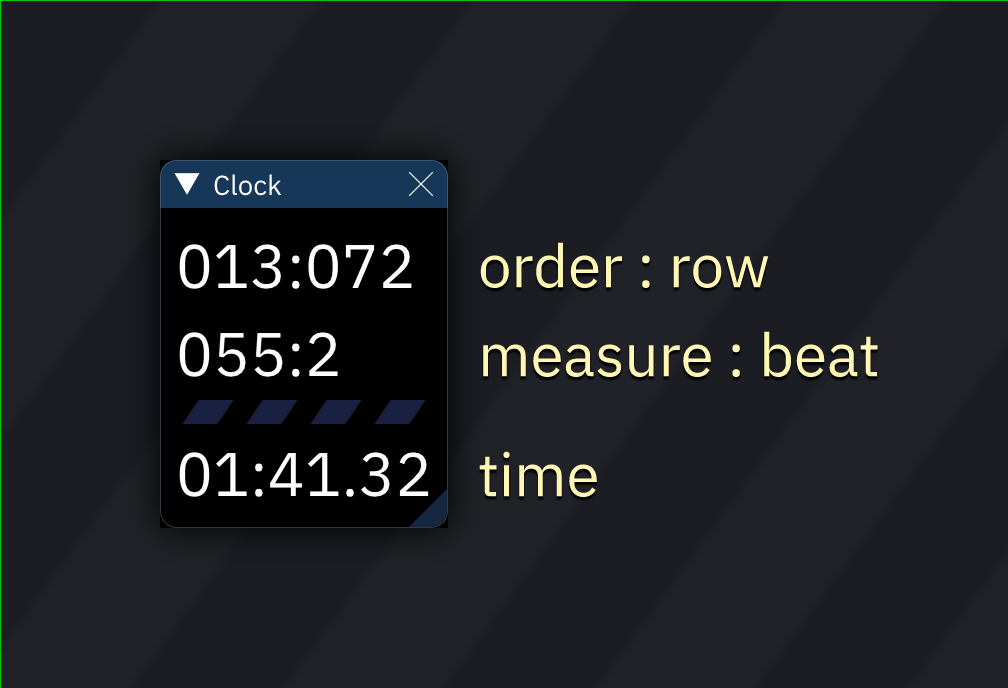
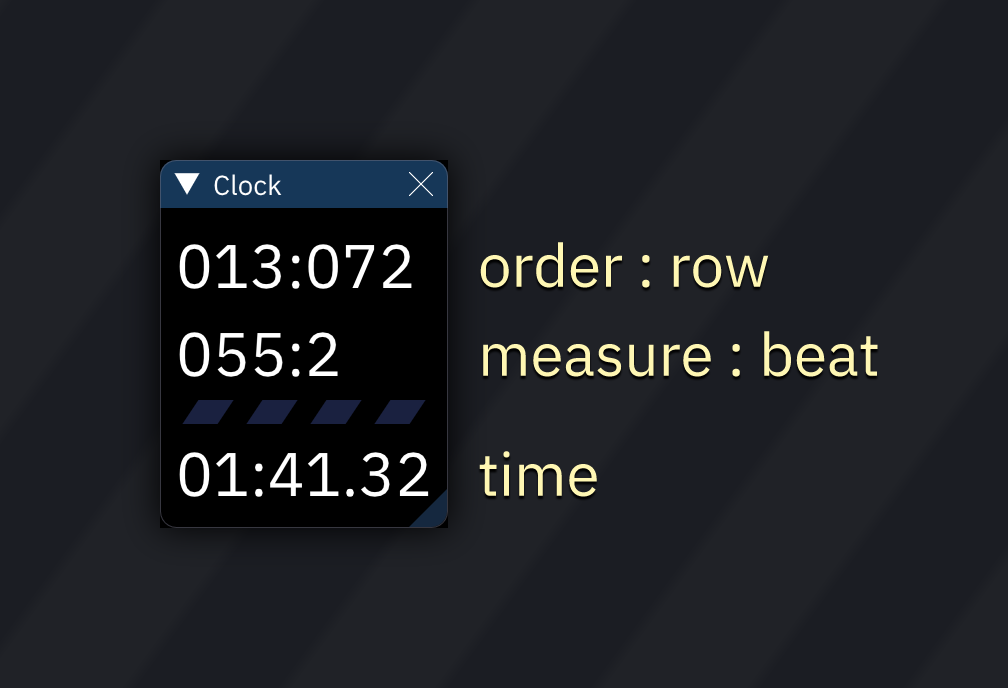
General doc cleanup.
Marked items only available in advanced mode, fixed up images with accidental green borders, other nitpicks.

diff --git a/doc/2-interface/menu-bar.md b/doc/2-interface/menu-bar.md
@@ -2,6 +2,8 @@
 
 the menu bar allows you to select from five menus: file, edit, settings, window and help.
 
+items in _italics_ don't appear in basic mode and are only available in advanced mode.
+
 # file
 
 - **new...**: create a new song.
@@ -38,12 +40,12 @@ the menu bar allows you to select from five menus: file, edit, settings, window 
 - **export command stream...**: export song data to a command stream file. see next section for more details.
   - this option is for developers.
   
-- **add chip...**: add a chip to the current song.
-- **configure chip...**: set a chip's parameters.
+- _**add chip...**:_ add a chip to the current song.
+- _**configure chip...**:_ set a chip's parameters.
   - for a list of parameters, see [7-systems](../7-systems/README.md).
-- **change chip...**: change a chip to another.
+- _**change chip...**:_ change a chip to another.
   - **Preserve channel positions**: enable this option to make sure Furnace does not auto-arrange/delete channels to compensate for differing channel counts. this can be useful for doing ports, e.g. from Genesis to PC-98.
-- **remove chip...**: remove a chip.
+- _**remove chip...**_: remove a chip.
   - **Preserve channel positions**: same thing as above.
 
 - **restore backup**: restore a previously saved backup.
@@ -99,10 +101,10 @@ the following settings exist:
   - some chips will not be available, either because VGM doesn't support these yet, or because you selected an old format version.
 - **add pattern change hints**: this option adds a "hint" when a pattern change occurs. only useful if you're a developer.
   - the format of the "hint" data block that gets written is: `67 66 FE ll ll ll ll 01 oo rr pp pp pp ...`
-    - ll: length, a 32-bit little-endian number
-    - oo: order
-    - rr: initial row (a 0Dxx effect is able to select a different row)
-    - pp: pattern index (one per channel)
+    - `ll`: length, a 32-bit little-endian number
+    - `oo`: order
+    - `rr`: initial row (a 0Dxx effect is able to select a different row)
+    - `pp`: pattern index (one per channel)
 - **direct stream mode**: this option allows DualPCM to work. don't use this for other chips.
   - may or may not play well with hardware VGM players.
 
@@ -140,7 +142,7 @@ it's not really useful, unless you're a developer and want to use a command stre
 - **cut**: moves the current selection in the pattern view to clipboard.
 - **copy**: copies the current selection in the pattern view to clipboard.
 - **paste**: inserts the clipboard's contents in the cursor position.
-- **paste special...**: variants of the paste feature.
+- _**paste special...**:_ variants of the paste feature.
   - **paste mix**: inserts the clipboard's contents in the cursor position, but does not erase the occupied region.
   - **paste mix (background)**: does the same thing as paste mix, but doesn't alter content which is already there.
   - **paste with ins (foreground)**: same thing as paste mix, but changes the instrument.
@@ -154,8 +156,8 @@ it's not really useful, unless you're a developer and want to use a command stre
   - if a column is already selected, it will select the entire channel.
   - if a channel is already selected, it will select the entire pattern.
 
-- **operation mask**: toggles which columns will be affected by the listed operations. [more information here.](../8-advanced/opmask.md)
-- **input latch**: determines which data are placed along with a note. [more information here.](../8-advanced/inputlatch.md)
+- _**operation mask**:_ toggles which columns will be affected by the listed operations. [more information here.](../8-advanced/opmask.md)
+- _**input latch**:_ determines which data are placed along with a note. [more information here.](../8-advanced/inputlatch.md)
 
 - **note/octave up/down**: transposes notes in the current selection.
 
@@ -188,7 +190,7 @@ it's not really useful, unless you're a developer and want to use a command stre
 - **expand song**: same as expand, but affects the entire song.
   - it also changes speeds and pattern length to compensate.
 
-- **find/replace**: shows [the Find/Replace window](../8-advanced/find-replace.md).
+- _**find/replace**:_ shows [the Find/Replace window](../8-advanced/find-replace.md).
 
 - **clear**: allows you to mass-delete things like songs, instruments and the like.
 
@@ -213,12 +215,12 @@ all these menu items show or hide their associated windows.
 - [samples](../6-sample/README.md)
 - [orders](order-list.md)
 - [pattern](../3-pattern/README.md)
-- [mixer](mixer.md)
-- [grooves](grooves.md)
-- [channels](channels.md)
-- [pattern manager](pat-manager.md)
-- [chip manager](chip-manager.md)
-- [compatibility flags](compat-flags.md)
+- _[mixer](mixer.md)_
+- _[grooves](grooves.md)_
+- _[channels](channels.md)_
+- _[pattern manager](pat-manager.md)_
+- _[chip manager](chip-manager.md)_
+- _[compatibility flags](compat-flags.md)_
 - [song comments](comments.md)
 
 - [piano](piano.md)
@@ -246,5 +248,5 @@ at the end of the menu bar, more information may be shown:
   - volume in decimal, hex, and percentage.
   - effect type and description.
 - during playback, the current values of the following will be listed:\
-  speed/groove @ tick rate (BPM) | order | row | elapsed time.
+  > speed/groove @ tick rate (BPM) | order | row | elapsed time.
 - if any changes or edits have been made but not yet saved, "modified" will appear.

diff --git a/doc/2-interface/song-info.md b/doc/2-interface/song-info.md
@@ -1,13 +1,13 @@
 # song info
 
 - **Name**: The track's title.
-- **Author**: List of contributors to a song. If the song is a cover of someone else's track, it's customary to list their name first, followed by `[cv. YourName]`.
+- **Author**: List of contributors to a song. If the song is a cover of someone else's work, it's customary to list their name first, followed by `[cv. YourName]`.
 - **Album**: The associated album name, the name of the game the song is from, or whatever.
-- **System**: The game console or computer the track is designed for. This is automatically set when creating a new tune, but it can be changed to anything one wants. The **Auto** button will provide a guess based on the chips in use.
+- **System**: The game console or computer the track is designed for. This is automatically set when creating a new tune, but in advanced mode, it can be changed to anything one wants. The **Auto** button will provide a guess based on the chips in use.
 
 All of this metadata will be included in a VGM export. This isn't the case for a WAV export, however.
 
-**Tuning (A-4)**: Set tuning based on the note A-4, which should be 440 in most cases. Opening an Amiga MOD will set it to 436 for hardware compatibility.
+- _**Tuning (A-4)**:_ Set tuning based on the note A-4, which should be 440 in most cases. Opening an Amiga MOD will set it to 436 for hardware compatibility. Available only in advanced mode.
 
 # subsongs
 
@@ -23,6 +23,8 @@ This window allows one to create **subsongs** - multiple individual songs within
 
 There are multiple ways to set the tempo of a song.
 
+Items in _italics_ don't appear in basic mode and are only available in advanced mode.
+
 **Tick Rate**: The frequency of ticks per second, thus the rate at which notes and effects are processed.
 - All values are allowed for all chips, though most chips have hardware limitations that mean they should stay at either 60 (approximately NTSC) or 50 (exactly PAL).
 - Clicking the Tick Rate button switches to a more traditional **Base Tempo** BPM setting.
@@ -30,14 +32,14 @@ There are multiple ways to set the tempo of a song.
 **Speed**: The number of ticks per row.
 - Clicking the "Speed" button changes to more complex modes covered in the [grooves] page.
 
-**Virtual Tempo**: Simulates any arbitrary tempo without altering the tick rate. It does this by adding or skipping ticks to approximate the tempo. The two numbers represent a ratio applied to the actual tick rate. Example:
+_**Virtual Tempo**:_ Simulates any arbitrary tempo without altering the tick rate. It does this by adding or skipping ticks to approximate the tempo. The two numbers represent a ratio applied to the actual tick rate. Example:
 - Set tick rate to 150 BPM (60 Hz) and speed to 6.
 - Set the first virtual tempo number (numerator) to 200.
 - Set the second virtual tempo number (denominator) to 150.
 - The track will play at 200 BPM.
 - The ratio doesn't have to match BPM numbers. Set the numerator to 4 and the denominator to 5, and the virtual BPM becomes 150 × 4/5 = 120.
 
-**Divider**: Changes the effective tick rate. A tick rate of 60Hz and a divisor of 6 will result in ticks lasting a tenth of a second each!
+_**Divider**:_ Changes the effective tick rate. A tick rate of 60Hz and a divisor of 6 will result in ticks lasting a tenth of a second each!
 
 **Highlight**: Sets the pattern row highlights:
 - The first value represents the number of rows per beat.
@@ -46,4 +48,4 @@ There are multiple ways to set the tempo of a song.
 
 **Pattern Length**: The length of each pattern in rows. This affects all patterns in the song, and every pattern must be the same length. (Individual patterns can be cut short by `0Bxx`, `0Dxx`, and `FFxx` commands.)
 
-**Song Length**: How many orders are in the order list. Decreasing it will hide the orders at the bottom. Increasing it will restore those orders; increasing it further will add new orders of all `00` patterns.
+_**Song Length**:_ How many orders are in the order list. Decreasing it will hide the orders at the bottom. Increasing it will restore those orders; increasing it further will add new orders of all `00` patterns.

diff --git a/doc/3-pattern/README.md b/doc/3-pattern/README.md
@@ -74,7 +74,7 @@ Space       | toggle note input (edit)
 ![keyboard](keyboard.png)
 
 - pressing any of the respective keys will insert a note at the cursor's location, and then advance it by the Edit Step.
-- note off turns off the last played note in that channel (key off on FM; note cut otherwise).
+- note off turns off the last played note in that channel (key off for FM; note cut otherwise).
 - note release triggers macro release (and in FM channels it also triggers key off).
 - macro release does the same as above, but does not trigger key off in FM channels.
 
@@ -91,4 +91,8 @@ if the effect value is not present, it is treated as `00`.
 
 most effects run until canceled using an effect of the same type with effect value `00`, with some exceptions.
 
-for a list of effects [click here](effects.md).
+here's [a list of effects](effects.md).
+
+# pop-up menu
+
+right-clicking within the pattern view brings up a pop-up menu with everything in the [edit menu](../2-interface/menu-bar.md) that makes sense for entering data or altering a selected area.
